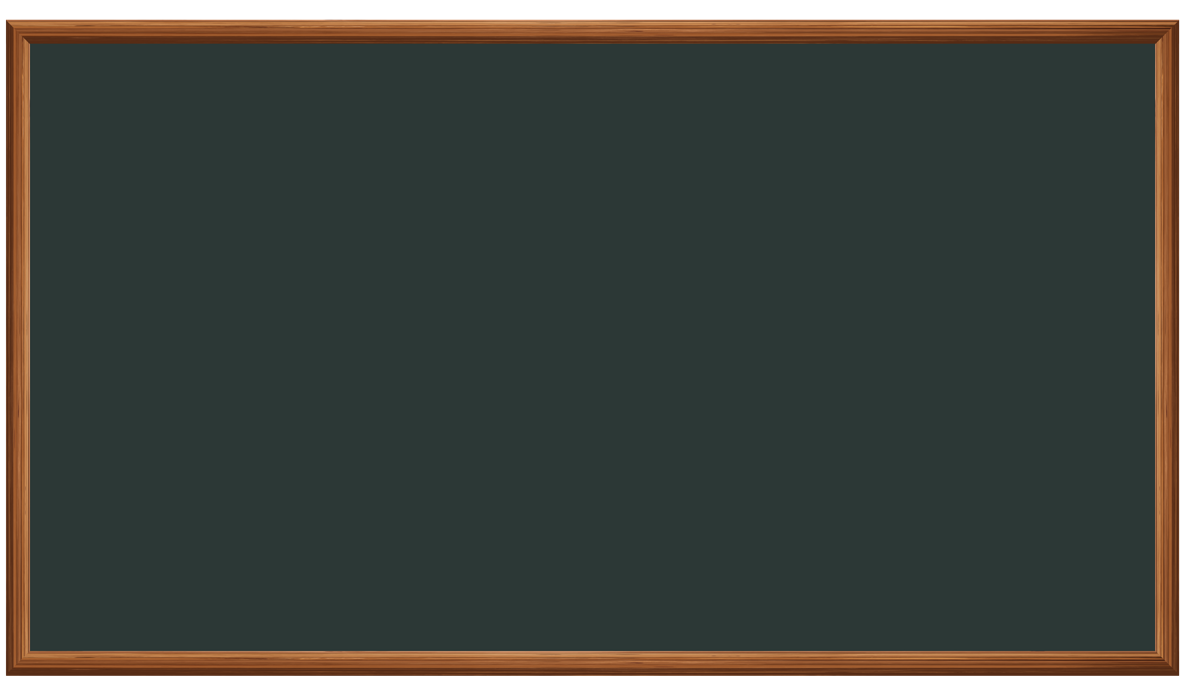
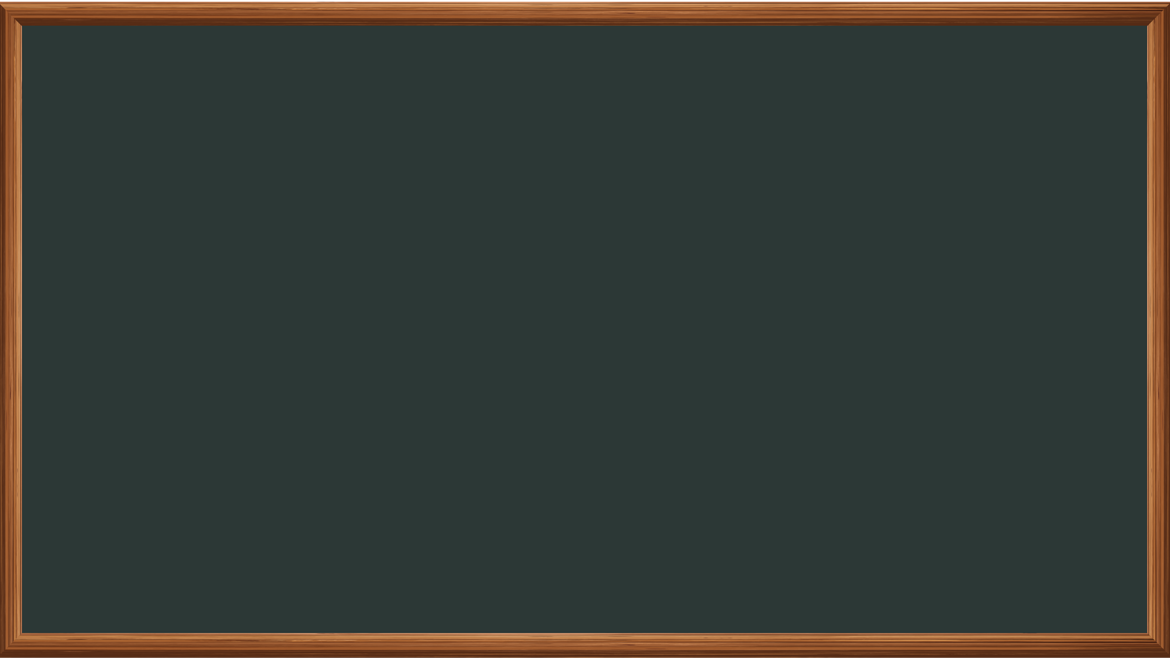
black board included

Changed region(s): [[0.0, 0.0, 1.0, 1.0]]

diff --git a/index.js b/index.js
@@ -286,7 +286,12 @@ window.onload = () => {
         }
         return count--;
     }
-    
+
+    function drawBlackBoard() {
+        imgBlackBoard.src = './imgs/BlackBoard.png';
+        ctx.drawImage(imgBlackBoard, 0, 0, screenWidth, screenHeight)
+    }
+
 //function to choose a Secret Word for the charade
     function chooseSecretWord() {
         return words[Math.floor(Math.random() * words.length)];
@@ -450,6 +455,7 @@ window.onload = () => {
 
         if (startedScreen) {
             clearScreen();
+            drawBlackBoard();
             drawLines();
             player.movePlayer();
             player.updatePlayer();
